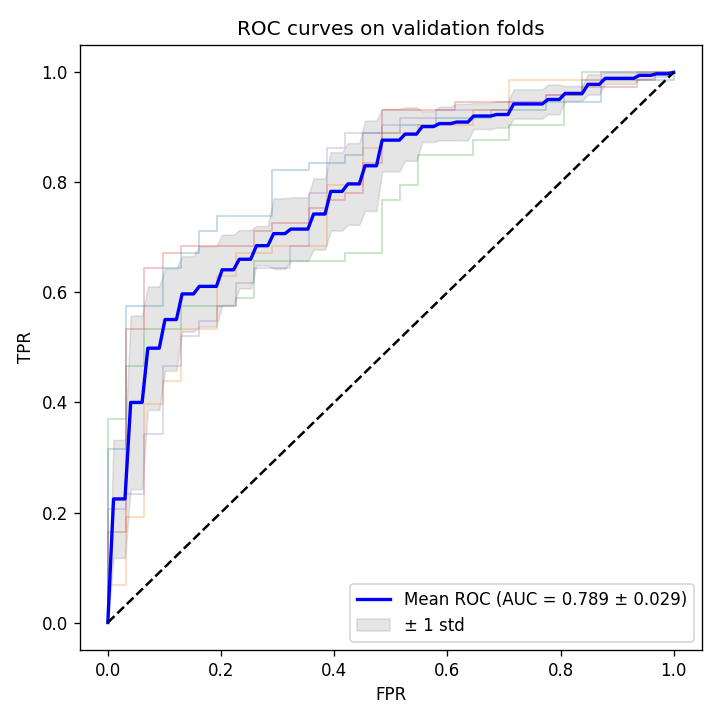
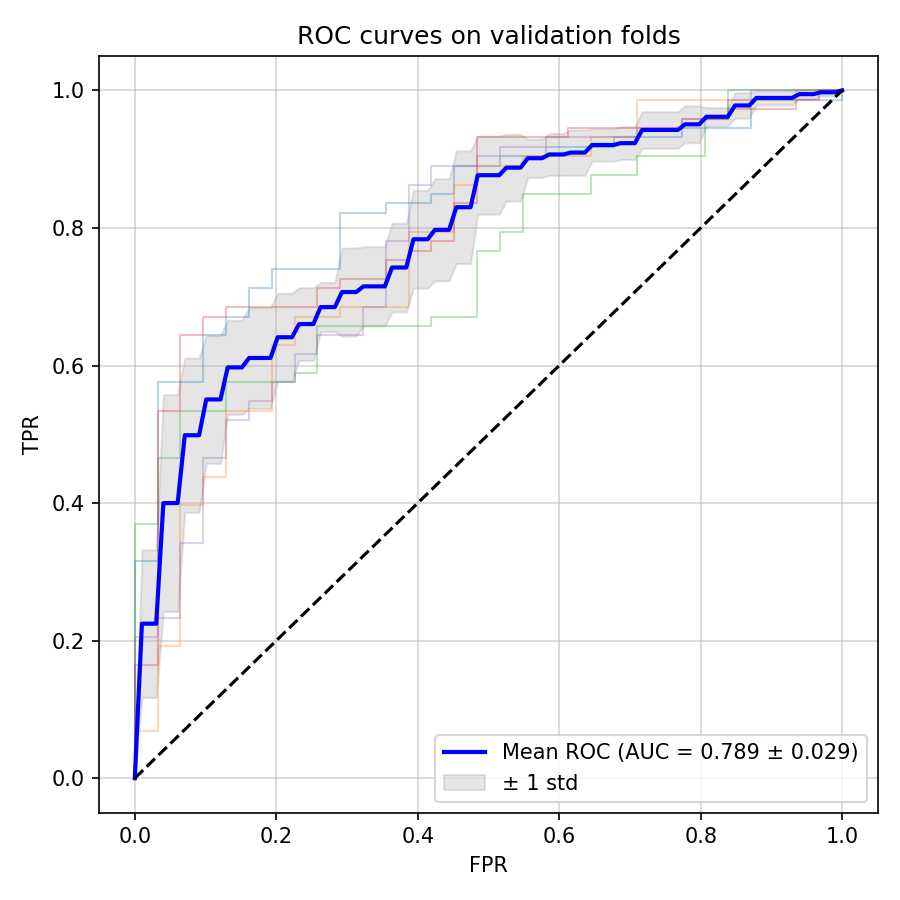
Fixed plots size

diff --git a/probe.py b/probe.py
@@ -112,8 +112,8 @@ class HallucinationProbe:
         plt.title("ROC curves on validation folds")
         plt.legend(loc="lower right")
         plt.tight_layout()
-        plt.savefig(plot_dir / "summary_roc_val.png", dpi=120)
         plt.grid(alpha=0.5)
+        plt.savefig(plot_dir / "summary_roc_val.png", dpi=150)
         plt.close()
 
         plt.figure(figsize=(10, 4))

diff --git a/SOLUTION.md b/SOLUTION.md
@@ -71,7 +71,7 @@ The final probe was retrained on all 689 labelled examples. It was used to produ
 
 Majority of errors come from truthful answers that the model mislabels as hallucinated.
 
-### Probability distribution (aggregated)
+### Probability distribution
 
 The histogram shows the predicted probabilities for both classes across all validation folds. Hallucinated samples are sharply concentrated around 0.95–1.0, while truthful samples spread across the whole range. It shows that the model is very confident on hallucinations but uncertain on some truthful answers.
 
